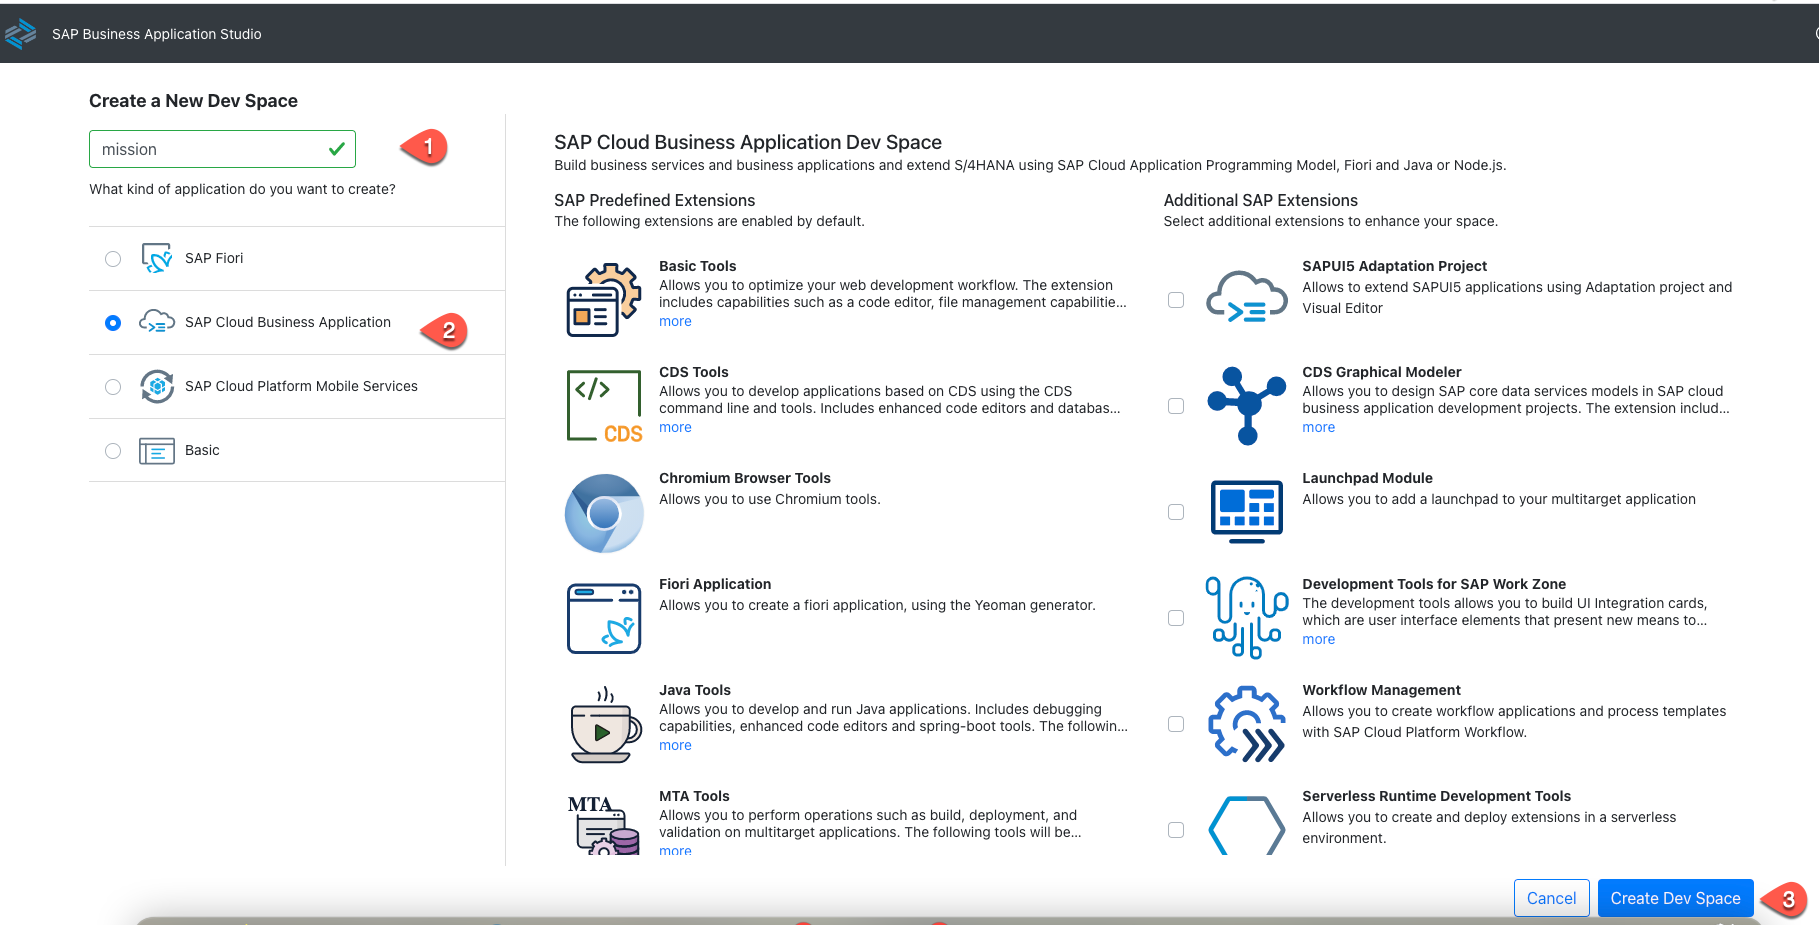
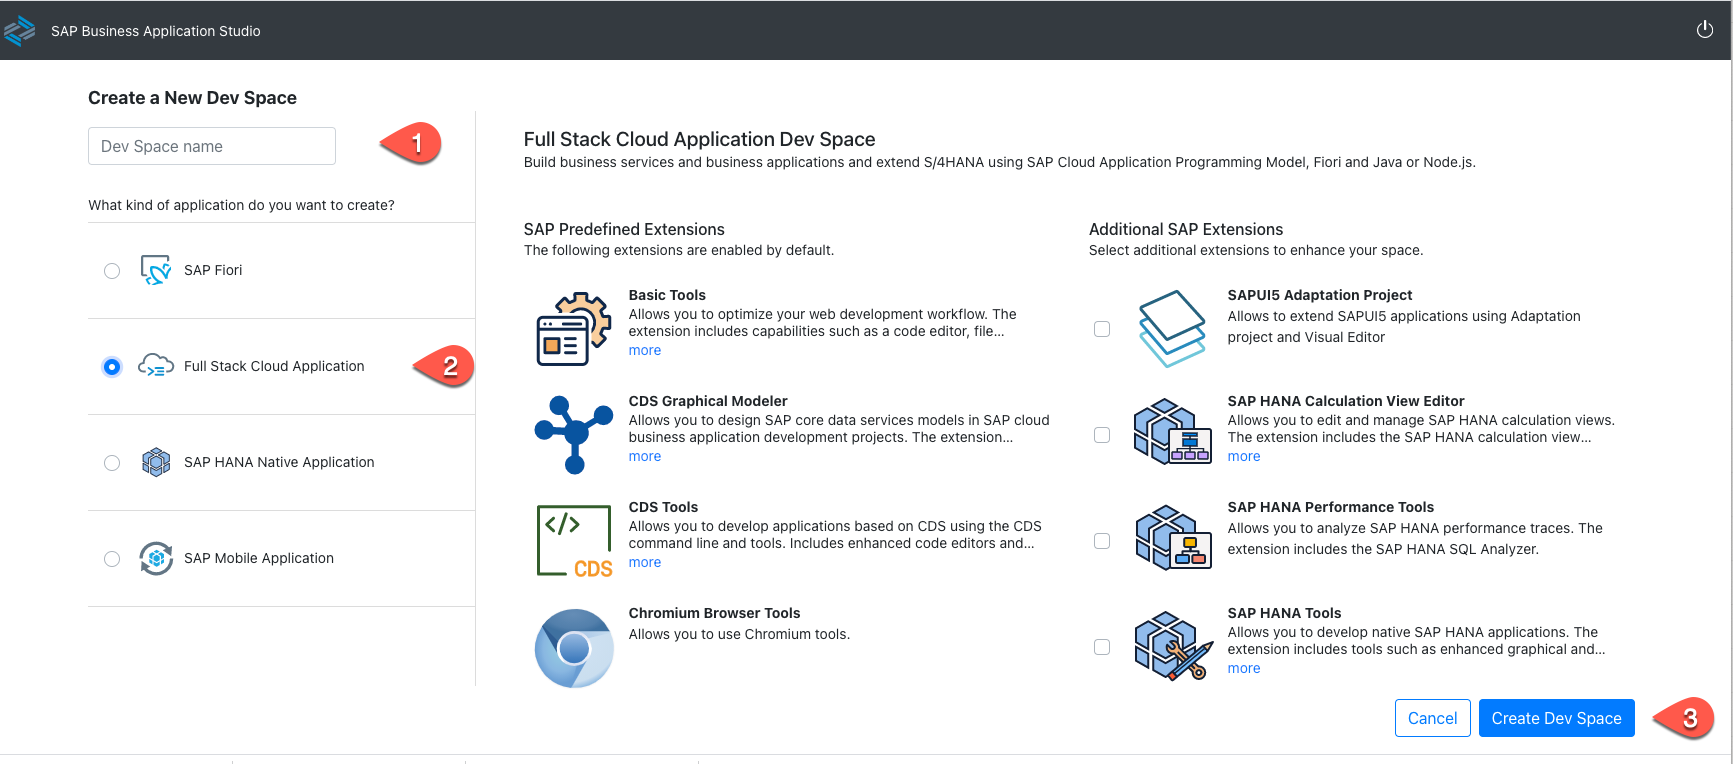
fix screenshot

diff --git a/mission/create-cap-app/README.md b/mission/create-cap-app/README.md
@@ -44,14 +44,14 @@ File / Folder | Purpose
 
      ![Create Dev Space](./images/dev-cap-app-3.png)
  
-5.	On the next screen enter a Dev space name e.g **mission**, select the type *SAP Cloud Business Application*. Click on the button *Create Dev Space*
+5.	On the next screen enter a Dev space name e.g **mission**, select the type **Full Stack Cloud Application**. Choose **Create Dev Space**
 
       ![Configure Dev Space](./images/dev-cap-app-4.png)
       
  
-6.	Your Dev Space is now being created. As soon as the Dev Space is available you can click on your Dev Spaces name to  access
+6.	Your Dev Space is now being created. As soon as the Dev Space is available you can choose your Dev Spaces name to access it.
 
-7.	Choose *Terminal -> New Terminal* in the menu on the top of your screen.
+7.	Choose **Terminal -> New Terminal** in the menu on the top of your screen.
 
     ![Open Terminal](./images/dev-cap-app-5.png)
  
@@ -67,17 +67,16 @@ File / Folder | Purpose
     git clone https://github.com/SAP-samples/cloud-extension-ecc-business-process.git 
      ```
  
-10.	Click on *File* in the menu on the top and choose *Open Workspace* in the drop down.
+10.	Choose **File** in the menu on the top and then choose **Open Workspace** in the drop down.
 
     ![Open Workspace](./images/dev-cap-app-7.png)
  
-11.	 Open the project by selecting projects -> cloud-extension-ecc-business-process and click on *Open*
-
+11.	 Open the project by selecting projects -> cloud-extension-ecc-business-process and choose **Open**
  
 
-12.  First you need to login to your SAP BTP account:
+12.  Next you need to login to your SAP BTP account:
  
-   * Check if you are logged in to your BTP Account from *SAP Business Application Studio*.
+   * Check if you are logged in to your BTP Account from **SAP Business Application Studio***
      
    * To login to Cloud Foundry, In the tabs, click on View-> Select **Find Command**.
     
@@ -100,7 +99,7 @@ File / Folder | Purpose
    * Select the space name which you have noted down. Once you have selected the Org and Space, you would login to your Cloud Foundry account from SAP Business Application Studio.
 
 
-13. For the next steps you need the terminal again. Go to *Terminal* -> *New Terminal*
+13. For the next steps you need the terminal again. Go to **Terminal** -> **New Terminal**
     - First we create a hdi-shared database instance, therefore we need the guid of the SAP HANA Cloud service that we have created at the [SAP BTP Setup](../scp-setup/README.md). You can find the service name in the list of services
       
 	 ```bash
